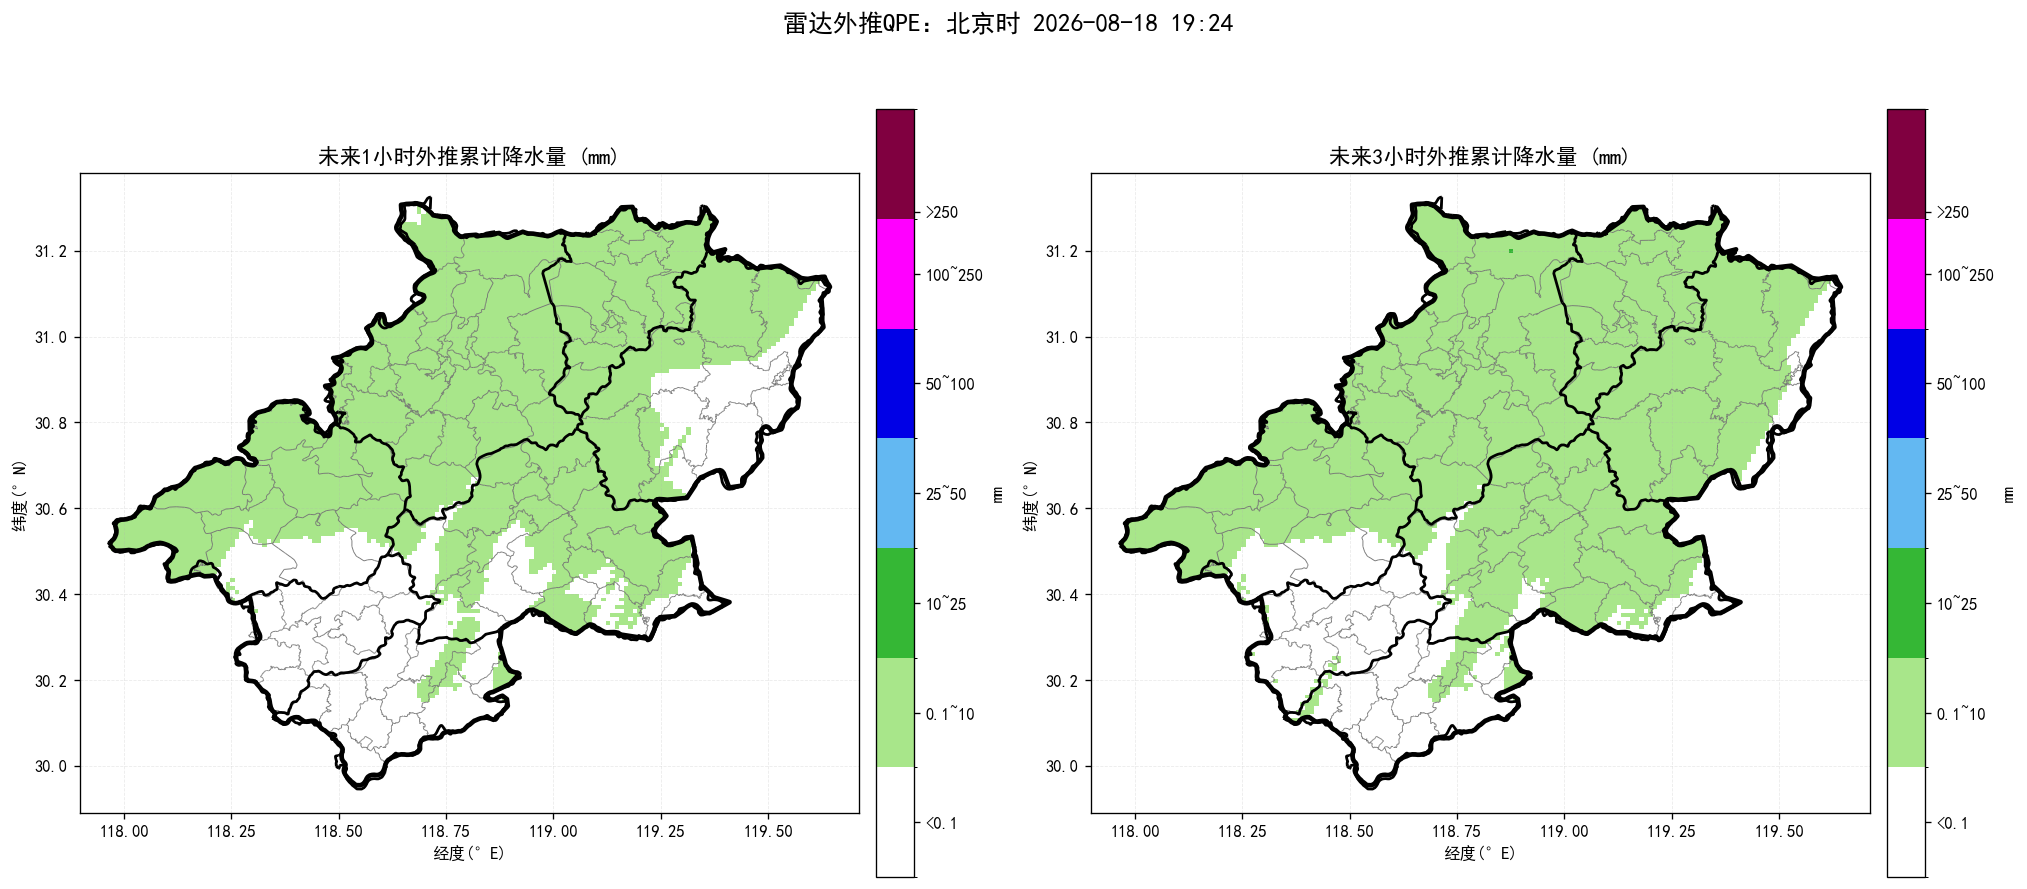
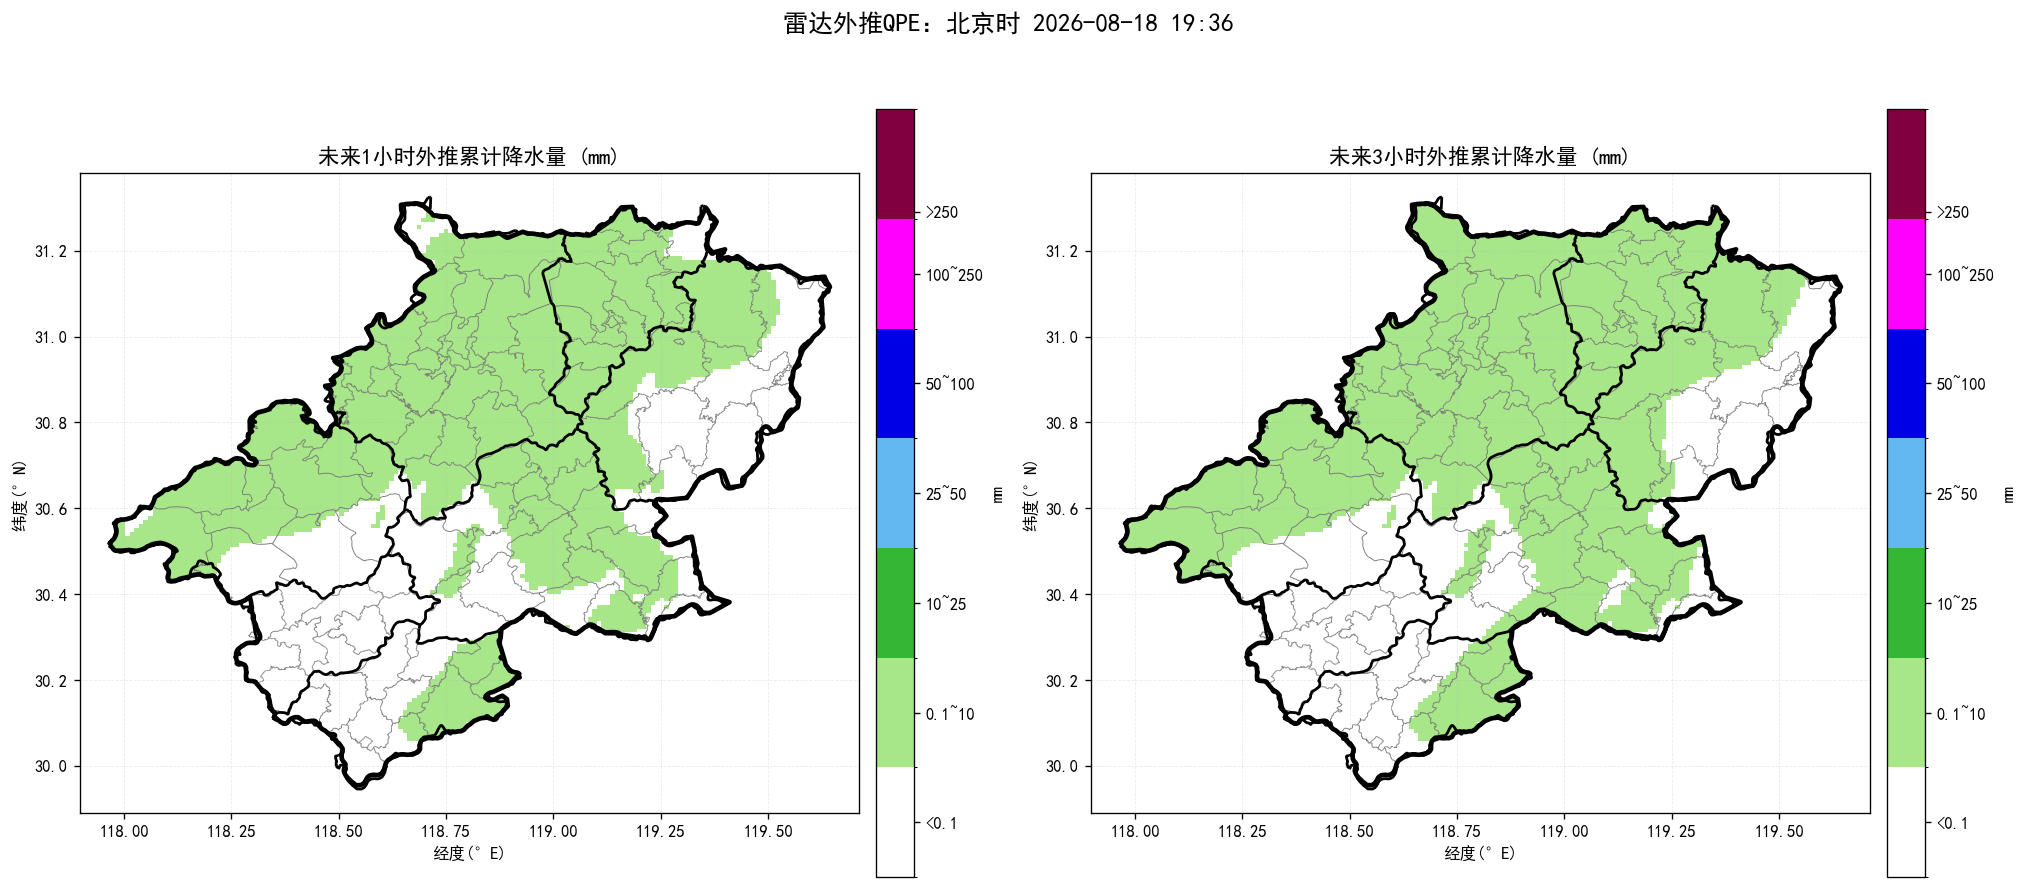
update nowcast products

diff --git a/index.html b/index.html
@@ -15,11 +15,11 @@ img.product{display:block;width:100%;height:auto;margin:10px auto 26px;border:1p
 .footer{font-size:13px;color:#777;text-align:center;margin-top:30px}
 @media(max-width:700px){.sheet{margin:0;padding:18px 15px}.alert-title{font-size:22px}.county-line{font-size:17px}.prob{font-size:18px}}
 </style></head><body><main class="sheet">
-<div class="time">起报时间：北京时 2026-08-18 19:24</div>
+<div class="time">起报时间：北京时 2026-08-18 19:36</div>
 <div class="alert-title">未来一小时降水量超过 20 毫米的乡镇：</div><div class="county-line">无</div>
 <div class="alert-title">未来三小时降水量超过 50 毫米的乡镇：</div><div class="county-line">无</div>
 <div class="alert-title">未来三小时雷暴大风（组合反射率 > 55 dBZ）的乡镇：</div><div class="county-line">无</div>
-<div class="prob">最大降水量概率预估：宣城市范围内未来三小时降水偏小，最大预报约10.1毫米，暂不进行50/80/100毫米概率预估。</div>
+<div class="prob">最大降水量概率预估：宣城市范围内未来三小时降水偏小，最大预报约9.4毫米，暂不进行50/80/100毫米概率预估。</div>
 <div class="section-title">未来降水预报图：</div><img class="product" src="短临降水预报.png" alt="未来降水预报图">
 <div class="section-title">未来三小时组合反射率图：</div><img class="product" src="未来3小时组合反射率.png" alt="未来三小时组合反射率图">
 <div class="section-title">未来三小时雷暴大风图：</div><img class="product" src="未来3小时雷暴大风.png" alt="未来三小时雷暴大风图">
